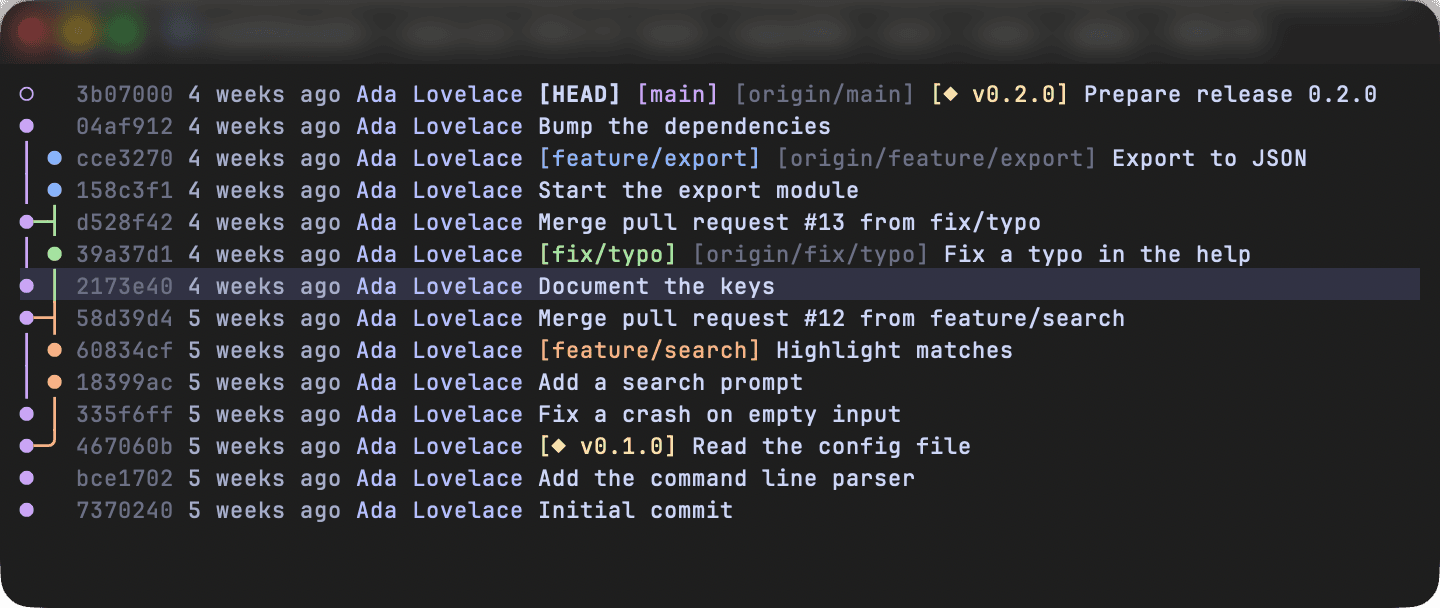
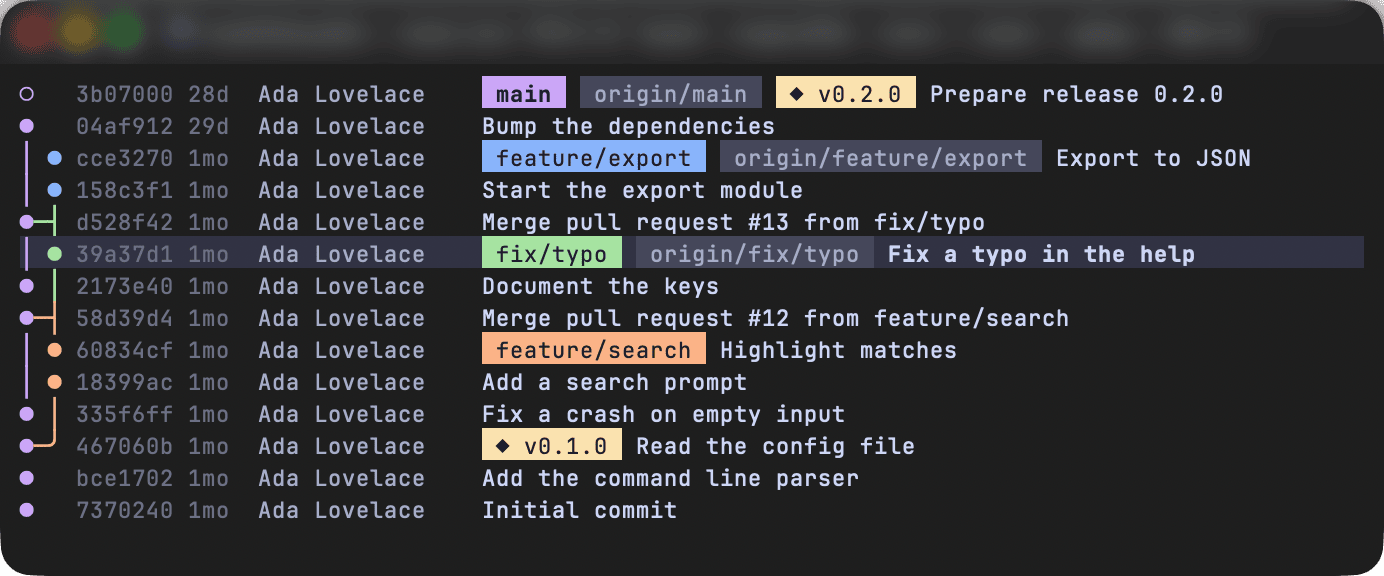
docs(readme): describe the new look, refresh the capture and announce it in the changelog

diff --git a/README.md b/README.md
@@ -2,7 +2,7 @@
 
 A read-only, coloured git log graph for the terminal: every branch, remote and tag of a repository in one scrollable view.
 
-![The glog view on a repository with a feature branch, merged pull requests and remote branches, with the selection on a commit in the middle of the history](docs/images/graph.png)
+![The glog view on a repository with a feature branch, merged pull requests and remote branches: coloured branch pills, grey remote pills and yellow tag pills, a 15-cell author column, and the selected commit in the middle of the history on a soft background with a bold subject](docs/images/graph.png)
 
 ## Install
 
@@ -34,10 +34,11 @@ Run `glog` in a git repository. It reads the current folder and changes nothing.
 
 ## Reading the graph
 
-- `●` is a commit and `○` is HEAD, which also carries a bold `[HEAD]` badge.
+- `●` is a commit and `○` is HEAD.
 - Each lane, a line of history that branches off and merges back, has its own colour.
-- The graph takes at most a third of the terminal width. When lanes are hidden, a dimmed `…` on its left or right edge says on which side: `h` and `l` scroll the graph one lane at a time.
-- Badges name the refs on a commit: local branches in colour, remote branches dimmed, and tags with a yellow `◆`.
+- The graph takes at most a quarter of the terminal width. When lanes are hidden, the two cells on that edge of the graph fade to dark grey, on the left or the right: `h` and `l` scroll the graph one lane at a time.
+- Badges are pills, a name on a coloured background, and name the refs on a commit: local branches in their lane's colour, remote branches in grey, and tags in yellow with a `◆`. The branch HEAD is on is the first pill, in bold; a detached HEAD shows a bold `HEAD` pill instead.
+- Colour is kept for the graph and the badges: the hash and the date are the dimmest text, the author is a step lighter and the subject is the lightest. The selected row has a soft background and a bold subject.
 
 ## Requirements
 

diff --git a/CHANGELOG.md b/CHANGELOG.md
@@ -3,6 +3,18 @@
 Notable changes to `glog`, most recent first.
 The format follows [Keep a Changelog](https://keepachangelog.com/en/1.1.0/).
 
+## [Unreleased]
+
+### Changed
+
+- The graph takes at most a quarter of the terminal width instead of a third, which leaves more room to the subject.
+- The author column has a width of fifteen cells instead of twenty.
+- When lanes are hidden, the two cells on that edge of the graph fade to dark grey instead of a dimmed `…`.
+- Badges are pills, a name on a coloured background instead of between brackets: local branches in their lane's colour, remote branches in grey, tags in yellow.
+- On a branch, HEAD no longer has its own `[HEAD]` badge: the pill of its branch is first and in bold. A detached HEAD shows a bold `HEAD` pill.
+- The hash and the date are the dimmest text, the author is a step lighter and the subject is the lightest: colour is kept for the graph and the badges.
+- The selected row has a softer background and a bold subject.
+
 ## [0.1.2] - 2026-11-11
 
 ### Added
